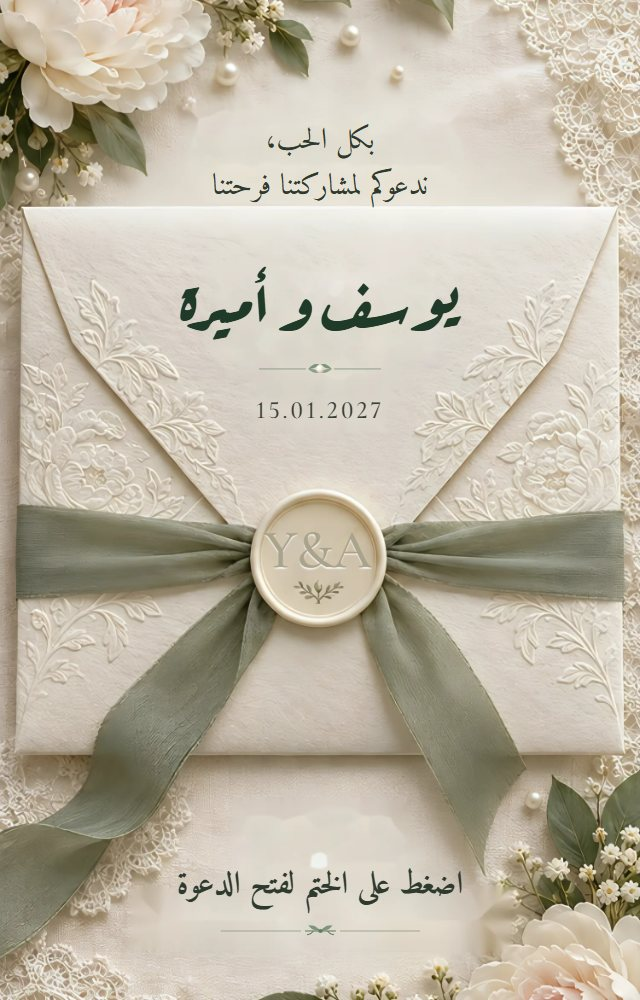
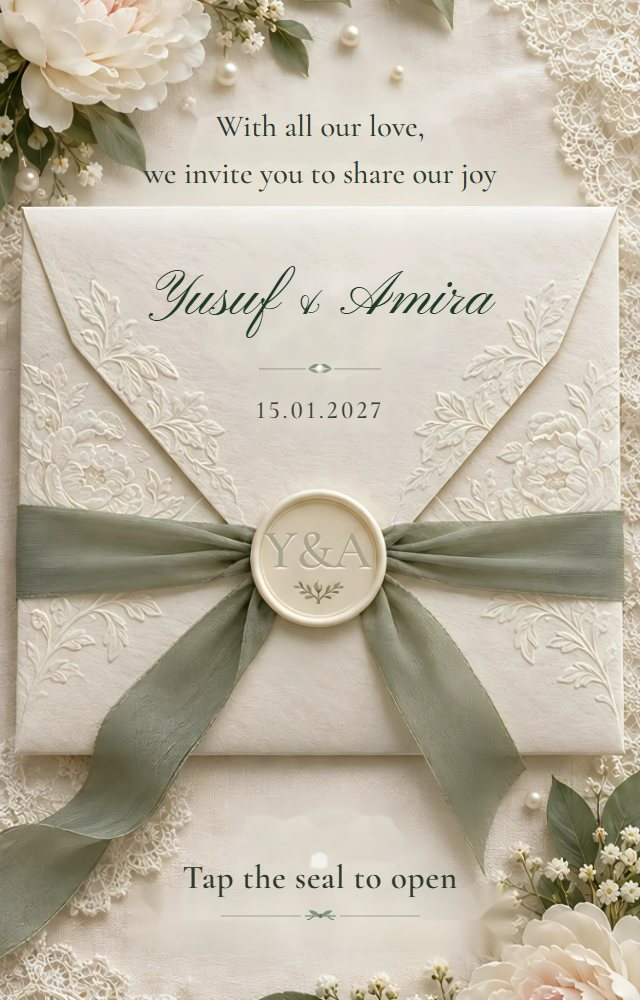
Pearl Peony بطلب المالك: الإنجليزي هو الافتراضي + حروف الختم دايمًا إنجليزي (حتى لو الأسامي عربي: أحمد/سارة A&S، عمر O، خالد K، جنى G…) وبتتحدّث مع أي تغيير في الأسامي + أسامي/تاريخ/ختم الظرف بيتعدّلوا من المحرر + منع لفّة مراقبة كانت بتتقّل المحرر
Claude-Session: https://claude.ai/code/session_01WWr143PkEpXc8CSVh9AHnN

diff --git a/views/pearl-peony.html b/views/pearl-peony.html
@@ -304,6 +304,9 @@ body.pp-edit .sent{display:block;margin-top:5cqw;outline:1px dashed rgba(125,146
 [dir=ltr] .names .amp,[dir=ltr] .env-names .amp{font-size:.8em}
 body.pp-edit .fl,body.pp-edit .emb{pointer-events:none}
 #coverScreen.pp-cover-edit{cursor:default}
+/* في المحرر: الأسامي والتاريخ والختم اللي على الظرف لازم ياخدوا الضغط (برّه المحرر الظرف كله زرار فتح) */
+#coverScreen.pp-cover-edit .env,#coverScreen.pp-cover-edit .env-t,#coverScreen.pp-cover-edit .env-mono{pointer-events:auto}
+#coverScreen.pp-cover-edit .env-orn,#coverScreen.pp-cover-edit .env>img,#coverScreen.pp-cover-edit .seal-glow{pointer-events:none}
 #coverScreen.pp-cover-edit .seal-glow,#coverScreen.pp-cover-edit .seal-ring{animation:none}
 </style>
 </head>
@@ -616,17 +619,50 @@ body.pp-edit .fl,body.pp-edit .emb{pointer-events:none}
     t0: clock(base), t1: clock(base + 30), t2: clock(base + 60), t3: clock(base + 120),
     hall: C.venueName || '', city: C.venueAddress || C.venueCity || '',
     // حروف الختم: أول حرف من اسم العريس والعروسة بالإنجليزي (ولو مش موجودين بالعربي)
-    mono: ((gL || groom).trim().charAt(0).toUpperCase() || '') + '&' + ((bL || bride).trim().charAt(0).toUpperCase() || '')
+    mono: ''
   };
   $$('[data-f]').forEach(function (el) { var v = F[el.getAttribute('data-f')]; if (v != null) el.textContent = v; });
-  byId('pp61').dataset.auto = F.mono;
   if (groom || bride) document.title = AR ? (groom + ' و ' + bride + ' | ' + (ENGAGED ? 'دعوة خطوبة' : 'دعوة زفاف')) : (groom + ' & ' + bride + ' | ' + (ENGAGED ? 'Engagement Invitation' : 'Wedding Invitation'));
 
   // سطر فاضي (صاحب الدعوة مسحه أو مش مكتوب) مايسيبش مكان — إلا في المحرر عشان يقدر يكتب فيه
   function hideEmpty() {
     if (EDIT) return;
-    ['pp8', 'pp38'].forEach(function (id) { var el = byId(id); if (el) el.style.display = el.textContent.trim() ? '' : 'none'; });
+    ['pp8', 'pp38'].forEach(function (id) { var el = byId(id); if (!el) return; var d = el.textContent.trim() ? '' : 'none'; if (el.style.display !== d) el.style.display = d; });
   }
+
+  /* ---------- حروف الختم: دايمًا إنجليزي ----------
+     الاسم مكتوب إنجليزي ← أول حرف منه. مكتوب عربي ولسه زي ما هو في بيانات الدعوة
+     ← أول حرف من الاسم الإنجليزي اللي في البيانات. غير كده ← الحرف العربي بالإنجليزي
+     (زي ما المصريين بيكتبوا الأسامي: عمر O، خالد K، جنى G، إيمان I، شادي S). */
+  var AR2EN = { 'ا': 'A', 'أ': 'A', 'آ': 'A', 'إ': 'I', 'ٱ': 'A', 'ب': 'B', 'ت': 'T', 'ث': 'T', 'ج': 'G', 'ح': 'H', 'خ': 'K', 'د': 'D', 'ذ': 'Z',
+    'ر': 'R', 'ز': 'Z', 'س': 'S', 'ش': 'S', 'ص': 'S', 'ض': 'D', 'ط': 'T', 'ظ': 'Z', 'ع': 'A', 'غ': 'G', 'ف': 'F', 'ق': 'K', 'ك': 'K', 'ل': 'L',
+    'م': 'M', 'ن': 'N', 'ه': 'H', 'ة': 'H', 'و': 'W', 'ي': 'Y', 'ى': 'Y', 'ئ': 'E', 'ؤ': 'O', 'پ': 'P', 'گ': 'G', 'ڤ': 'V' };
+  var PLACEHOLDER = { 'العريس': 'G', 'العروسة': 'B', 'العروس': 'B', 'groom': 'G', 'bride': 'B' };
+  function arInitial(name) {
+    var s = String(name || '').replace(/[ً-ٰٟـ]/g, '').trim();
+    if (PLACEHOLDER[s] != null) return PLACEHOLDER[s];
+    // ألقاب في الأول (م. / د. / المهندس …) مالهاش دعوة بالحرف
+    s = s.replace(/^(?:(?:م|د|أ|ا)\s*[./]\s*|(?:المهندسة?|الدكتورة?|الأستاذة?|الاستاذة?)\s+)/, '').trim();
+    if (/^عبد\s*/.test(s)) return 'A';
+    if (/^(?:عمر|عمرو|عمار|عثمان|علا|عُلا|عمرة)/.test(s)) return 'O';
+    if (/^يو/.test(s)) return 'Y';
+    var c = s.charAt(0);
+    return AR2EN[c] || (/[A-Za-z]/.test(c) ? c.toUpperCase() : '');
+  }
+  function initialOf(visible, latin, original) {
+    var v = String(visible || '').trim();
+    var m = v.match(/[A-Za-z]/);
+    if (m && /^[^-ۿ]*[A-Za-z]/.test(v)) return PLACEHOLDER[v.toLowerCase()] || m[0].toUpperCase();
+    var lat = String(latin || '').trim();
+    if (lat && /^[A-Za-z]/.test(lat) && !PLACEHOLDER[lat.toLowerCase()] && v === String(original || '').trim()) return lat.charAt(0).toUpperCase();
+    return arInitial(v);
+  }
+  function sealText() {
+    var g1 = byId('pp2'), b1 = byId('pp62');
+    var gi = initialOf(g1 && g1.textContent, gL, groom), bi = initialOf(b1 && b1.textContent, bL, bride);
+    return (gi || '') + '&' + (bi || '');
+  }
+  (function () { var m = byId('pp61'); m.textContent = sealText(); m.dataset.auto = m.textContent; })();
 
   /* ---------- الخريطة + التقويم ---------- */
   $('#mapBtn').href = C.venueMapDirectLink || 'https://www.google.com/maps';
@@ -650,28 +686,44 @@ body.pp-edit .fl,body.pp-edit .emb{pointer-events:none}
   tick(); setInterval(tick, 1000);
 
   /* ---------- الأسامي الطويلة بتصغر لحد ما تدخل مكانها ---------- */
+  // مهم: كل كتابة هنا بتحصل بس لو القيمة اتغيّرت فعلًا. المحرر وطبقة التخصيصات
+  // بيراقبوا الصفحة — لو كتبنا نفس القيمة كل مرة، كل واحد بيصحّي التاني في لفّة
+  // مالهاش آخر (على الموبايل كانت بتوقّع الصفحة).
+  function fitOne(el) {
+    var cs = getComputedStyle(el);
+    var pad = (parseFloat(cs.paddingLeft) || 0) + (parseFloat(cs.paddingRight) || 0);
+    var avail = el.clientWidth - pad;
+    var cur = parseFloat(el.style.getPropertyValue('--fit')) || 1;
+    var w = el.scrollWidth - pad;
+    // الكلام أقصر من المكان وهو متصغّر — نرجّعه لحجمه ونقيس من الأول
+    if (cur < 1 && w <= avail + 1) { el.style.removeProperty('--fit'); cur = 1; w = el.scrollWidth - pad; }
+    var natural = w / cur;
+    var want = avail > 0 && natural > avail + 1 ? Math.max(0.45, (avail / natural) * 0.97) : 1;
+    if (Math.abs(want - cur) < 0.01) return;
+    if (want === 1) el.style.removeProperty('--fit'); else el.style.setProperty('--fit', want.toFixed(3));
+  }
   function fitAll() {
     hideEmpty();
     // حروف الختم من الأسامي اللي ظاهرة (لو صاحب الدعوة غيّرها) — إلا لو هو كاتب الحروف بنفسه
-    var mono = byId('pp61'), g1 = byId('pp2'), b1 = byId('pp62');
+    var mono = byId('pp61');
     if (mono && mono.textContent === mono.dataset.auto) {
-      var ini = function (s, l) { s = String(s || '').trim(); return (/^[A-Za-z]/.test(s) ? s : (l || s)).charAt(0).toUpperCase(); };
-      var t = ini(g1 && g1.textContent, gL) + '&' + ini(b1 && b1.textContent, bL);
-      mono.textContent = t; mono.dataset.auto = t;
+      var t = sealText();
+      if (t !== mono.textContent) { mono.textContent = t; mono.dataset.auto = t; }
     }
-    $$('.fit').forEach(function (el) {
-      el.style.removeProperty('--fit');
-      var avail = el.clientWidth - (parseFloat(getComputedStyle(el).paddingLeft) || 0) - (parseFloat(getComputedStyle(el).paddingRight) || 0);
-      var w = el.scrollWidth - (parseFloat(getComputedStyle(el).paddingLeft) || 0) - (parseFloat(getComputedStyle(el).paddingRight) || 0);
-      if (avail > 0 && w > avail + 1) el.style.setProperty('--fit', Math.max(0.45, (avail / w) * 0.97).toFixed(3));
-    });
+    $$('.fit').forEach(fitOne);
   }
   var fitT = 0;
   var fitSoon = function () { clearTimeout(fitT); fitT = setTimeout(fitAll, 60); };
   fitAll();
   if (document.fonts && document.fonts.ready) document.fonts.ready.then(fitAll);
   addEventListener('resize', fitSoon);
-  $$('.fit, [data-elem-id="pp8"], [data-elem-id="pp38"], [data-elem-id="pp2"], [data-elem-id="pp62"]').forEach(function (el) { new MutationObserver(fitSoon).observe(el, { subtree: true, characterData: true, childList: true }); });
+  var lastTexts = '';
+  var watched = $$('.fit, [data-elem-id="pp8"], [data-elem-id="pp38"]');
+  var onText = function () {
+    var now = watched.map(function (el) { return el.textContent; }).join('|');
+    if (now !== lastTexts) { lastTexts = now; fitSoon(); }
+  };
+  watched.forEach(function (el) { new MutationObserver(onText).observe(el, { subtree: true, characterData: true, childList: true }); });
 
   /* ---------- الظهور مع النزول ---------- */
   var revealSel = '.r,[data-fl],[data-tl],[data-pin],[data-sw],.ti';

diff --git a/templates/registry.js b/templates/registry.js
@@ -261,9 +261,9 @@ const TEMPLATES = [
     extraFields: [
       { key: 'venueAddress', label: 'عنوان القاعة (بيظهر تحت اسمها — اختياري)', maxlength: 200 },
     ],
-    // نسختين منفصلتين: عربي (التصميم الأصلي — المعاينة للزوار) وإنجليزي.
+    // نسختين منفصلتين: إنجليزي (الافتراضي — المعاينة للزوار، بطلب المالك) وعربي.
     // العميل بيختار واحدة وهو بيبدأ الدعوة — مفيش زرار لغة جوه الدعوة.
-    designLanguages: ['ar', 'en'],
+    designLanguages: ['en', 'ar'],
     isNew: true,
     isPremium: true,
   },
